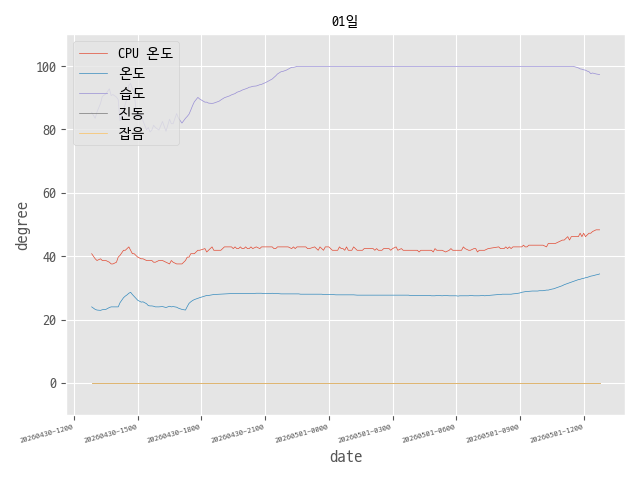
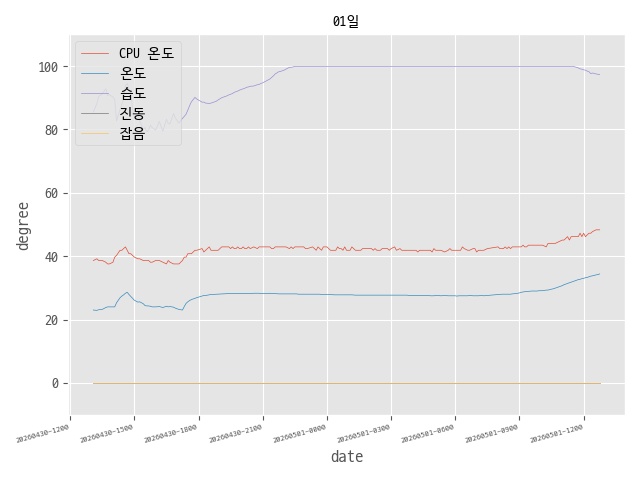
monitor_20260501 13:02

diff --git a/index.html b/index.html
@@ -1,1 +1,1 @@
-<!doctype html><html><head><meta charset="utf-8"><meta https-equiv="refresh" content="120"><title>TH01 환경 측정 데이터</title></head><body><h1>TH01 환경 측정 데이터</h1><br><h2>측정시간 : 20260501-1247</h2><table border = "1"><tr><td><img src=https://redfivezero.github.io/th01/monitor-01D.png></td><td><img src=https://redfivezero.github.io/th01/monitor-03D.png></td><td><img src=https://redfivezero.github.io/th01/monitor-05D.png></td></tr><tr><td><img src=https://redfivezero.github.io/th01/monitor-10D.png></td><td><img src=https://redfivezero.github.io/th01/monitor-30D.png></td><td><img src=https://redfivezero.github.io/th01/monitor-90D.png></td></tr></table<table border = "1"><tr><td><img src=https://redfivezero.github.io/th01/monitor-01D-wol.png></td><td><img src=https://redfivezero.github.io/th01/monitor-03D-wol.png></td><td><img src=https://redfivezero.github.io/th01/monitor-05D-wol.png></td></tr><tr><td><img src=https://redfivezero.github.io/th01/monitor-10D-wol.png></td><td><img src=https://redfivezero.github.io/th01/monitor-30D-wol.png></td><td><img src=https://redfivezero.github.io/th01/monitor-90D-wol.png></td></tr></table/<body></html>
+<!doctype html><html><head><meta charset="utf-8"><meta https-equiv="refresh" content="120"><title>TH01 환경 측정 데이터</title></head><body><h1>TH01 환경 측정 데이터</h1><br><h2>측정시간 : 20260501-1302</h2><table border = "1"><tr><td><img src=https://redfivezero.github.io/th01/monitor-01D.png></td><td><img src=https://redfivezero.github.io/th01/monitor-03D.png></td><td><img src=https://redfivezero.github.io/th01/monitor-05D.png></td></tr><tr><td><img src=https://redfivezero.github.io/th01/monitor-10D.png></td><td><img src=https://redfivezero.github.io/th01/monitor-30D.png></td><td><img src=https://redfivezero.github.io/th01/monitor-90D.png></td></tr></table<table border = "1"><tr><td><img src=https://redfivezero.github.io/th01/monitor-01D-wol.png></td><td><img src=https://redfivezero.github.io/th01/monitor-03D-wol.png></td><td><img src=https://redfivezero.github.io/th01/monitor-05D-wol.png></td></tr><tr><td><img src=https://redfivezero.github.io/th01/monitor-10D-wol.png></td><td><img src=https://redfivezero.github.io/th01/monitor-30D-wol.png></td><td><img src=https://redfivezero.github.io/th01/monitor-90D-wol.png></td></tr></table/<body></html>